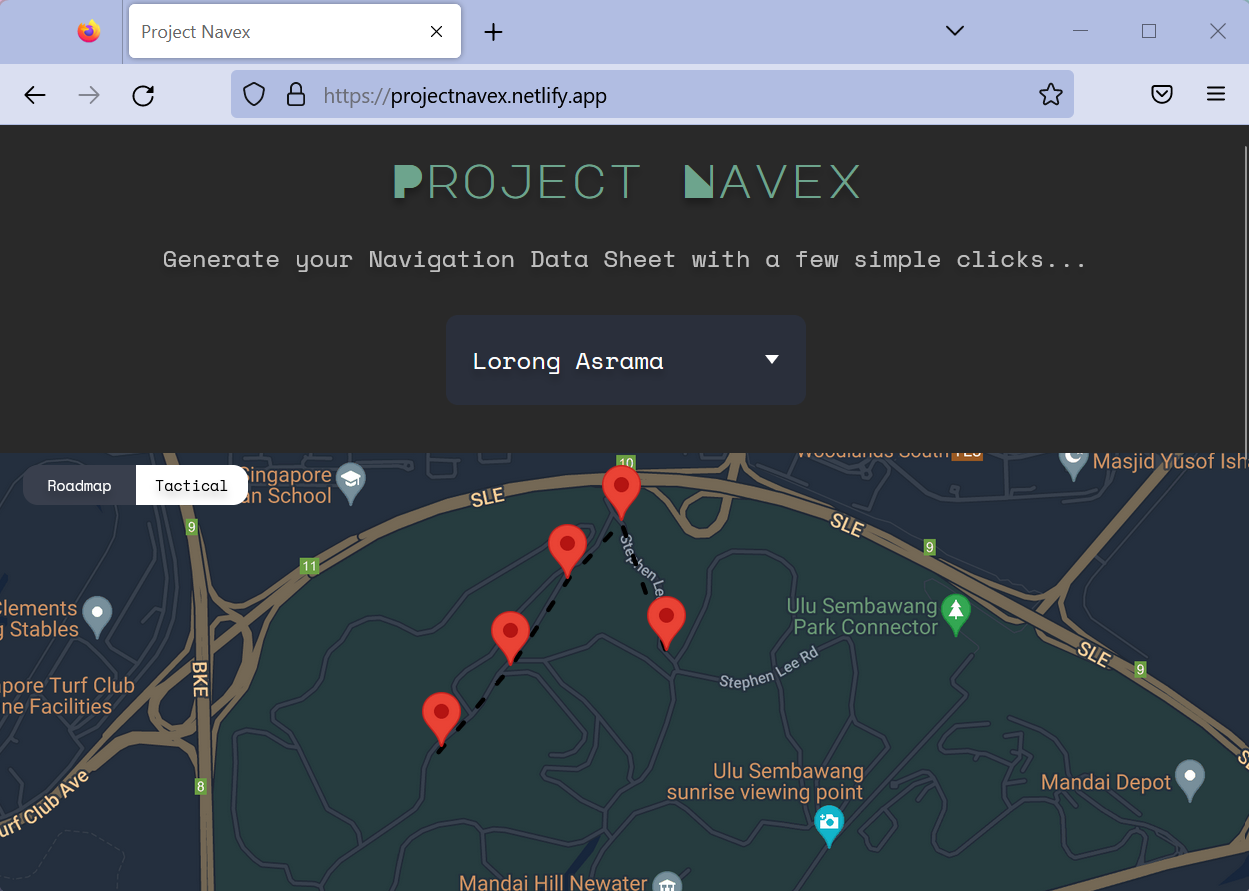
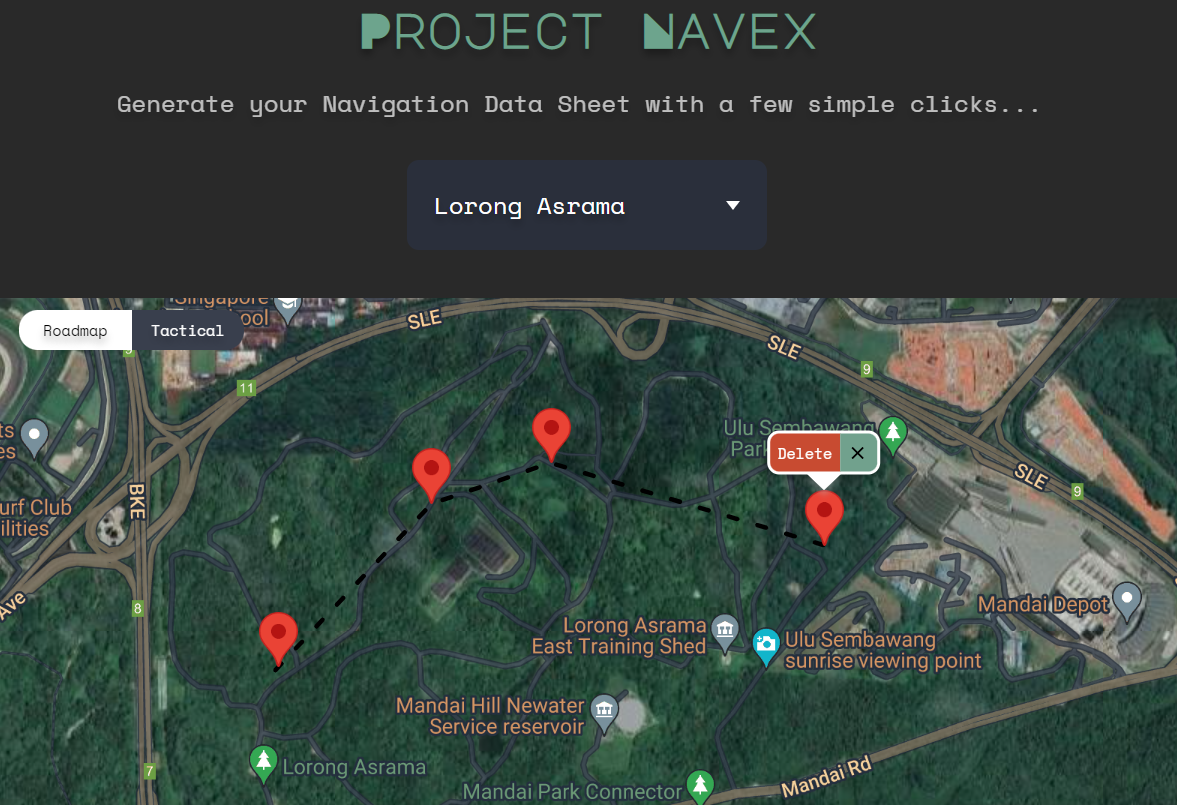
Updated README

diff --git a/donate.html b/donate.html
@@ -13,7 +13,7 @@
 
 <body>
     <h1 class="center-text"><a href="index.html">Project Navex</a></h1>
-    <h2 class="instructions">Help Us By Donating</h2>
+    <h2 class="instructions">Support Us By Donating</h2>
 
     <div class="container">
         <p class="instructions">
@@ -41,7 +41,7 @@
                 <a href="https://github.com/Airiinnn">Alex</a> |
                 <a href="https://github.com/wuihee">Wuihee</a> | 
                 <a href ="mailto: wuihee@gmail.com">Contact</a> |
-                <a href="donate.html">Donate</a>
+                <a href="donate.html">Support Us</a>
             </p>
         </div>
     </footer>

diff --git a/README.md b/README.md
@@ -6,19 +6,20 @@ We wanted to create a web application that allows the user to plot their navex c
 
 ### APIs Used
 
-* Google Maps Javascript API - Used to generate map and checkpoints.
+* [Google Maps Javascript API](https://developers.google.com/maps/documentation/javascript) - Used to generate map and checkpoints.
 * [ESPG.io](https://github.com/maptiler/epsg.io) - Used to convert coordinates from latlng to Kertau (RSO).
 
 ## Features
 
-User can click the map to add their points, or input them manually.
+1. Choose your training area from a dropdown menu.
+2. Choose either roadmap or satellite view for the map.
+3. Plot your checkpoints anywhere within Singapore.
+4. Edit your route by dragging checkpoints around, or deleting them.
+5. Manually enter and plot your own checkpoints in Kertau RSO coordinate format.
+6. Choose between 50m or 100m intervals between checkpoints.
+7. If you are unhappy with your route, you can clear the entire map.
+8. Click run to generate an NDS based on the checkpoints plotted on the map.
+9. In the NDS, checkpoints will be yellow colored while sub-checkpoints white.
 
-![Checkpoints](Images/screenshot1.png)
-
-After selecting the desired interval, the NDS is automatically generated.
-
-![NDS](Images/screenshot2.png)
-
-## To Do
-
-* Highlight chosen checkpoints in NDS.
+![Fig. 1](Images/screenshot1.png "Fig. 1")
+![Fig. 1](Images/screenshot2.png "Fig. 1")
